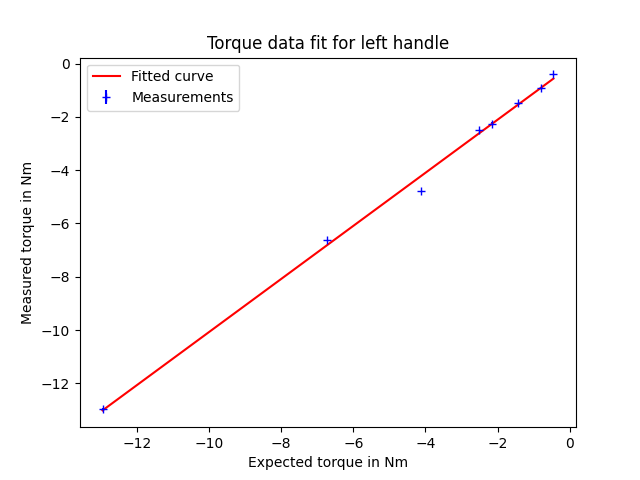
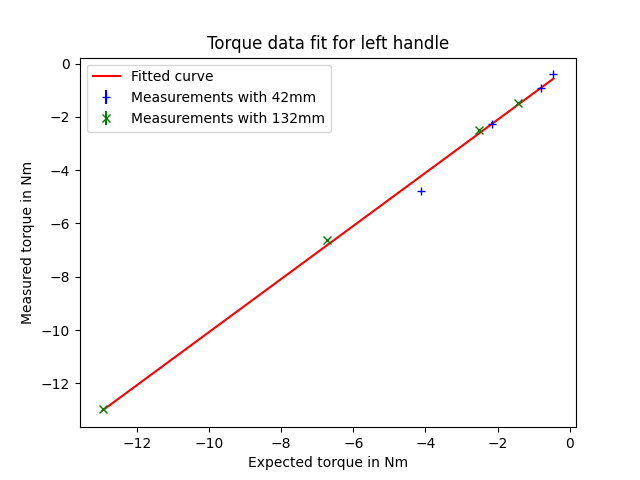
Data evaluation

diff --git a/calibration/evaluation.py b/calibration/evaluation.py
@@ -153,21 +153,24 @@ def evaluate_torques():
 
         y_data = np.array(y_data)
         y_err = np.array(y_err)
-        x_data = np.array([*(actual_forces * distances[0] / 1000), *(actual_forces * distances[1] / 1000)])
+        x_data = np.array([(actual_forces * distances[0] / 1000), (actual_forces * distances[1] / 1000)])
 
-        popt, pcov = curve_fit(linear, x_data, y_data.flatten())
+        popt, pcov = curve_fit(linear, x_data.flatten(), y_data.flatten())
         a, b = popt
         a_s.append(a)
         b_s.append(b)
 
         fig, ax = plt.subplots()
 
-        x_line = np.linspace(min(x_data), max(x_data), 100)
+        x_line = np.linspace(min(x_data.flatten()), max(x_data.flatten()), 100)
         y_line = linear(x_line, a, b)
 
         ax.set_title(f'Torque data fit for {handle} handle')
-        ax.errorbar(x_data, y_data.flatten(), yerr=y_err.flatten(), fmt='+', color='blue',
-                    label=f'Measurements')
+        fmts = ['+', 'x']
+        colors = ['blue', 'green']
+        for i in range(len(distances)):
+            ax.errorbar(x_data[i], y_data[i], yerr=y_err[i], fmt=fmts[i], color=colors[i],
+                        label=f'Measurements with {distances[i]}mm')
         ax.set_xlabel('Expected torque in Nm')
         ax.set_ylabel('Measured torque in Nm')
         ax.plot(x_line, y_line, color='red', label='Fitted curve')
@@ -190,7 +193,7 @@ def evaluate_torques():
     print('Plotted data of the handles including the fit:\n')
     print('| Left handle | Right handle |')
     print('|-|-|')
-    print('| ![Fit on the left handle data](left_force.png) | ![Fit on the right handle data](right_force.png) |')
+    print('| ![Fit on the left handle data](left_torque.png) | ![Fit on the right handle data](right_torque.png) |')
 
 
 def main():

diff --git a/calibration/calibration.md b/calibration/calibration.md
@@ -80,4 +80,4 @@ Plotted data of the handles including the fit:
 
 | Left handle | Right handle |
 |-|-|
-| ![Fit on the left handle data](left_force.png) | ![Fit on the right handle data](right_force.png) |
+| ![Fit on the left handle data](left_torque.png) | ![Fit on the right handle data](right_torque.png) |
